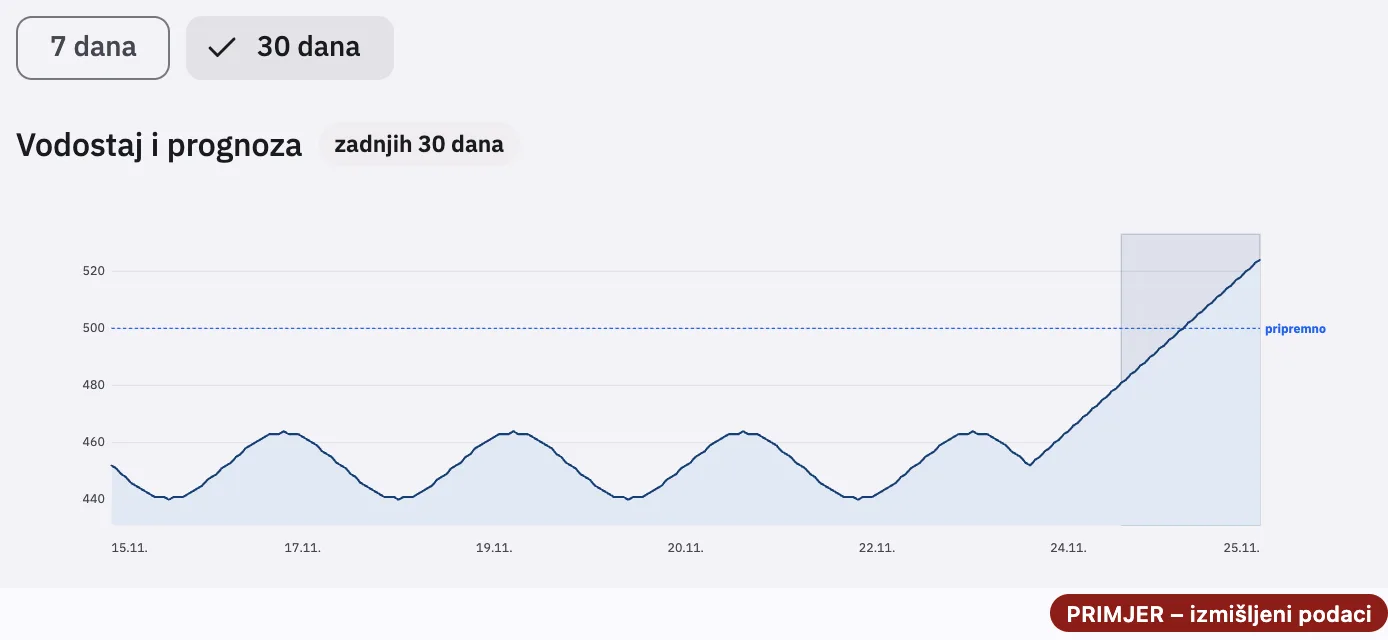
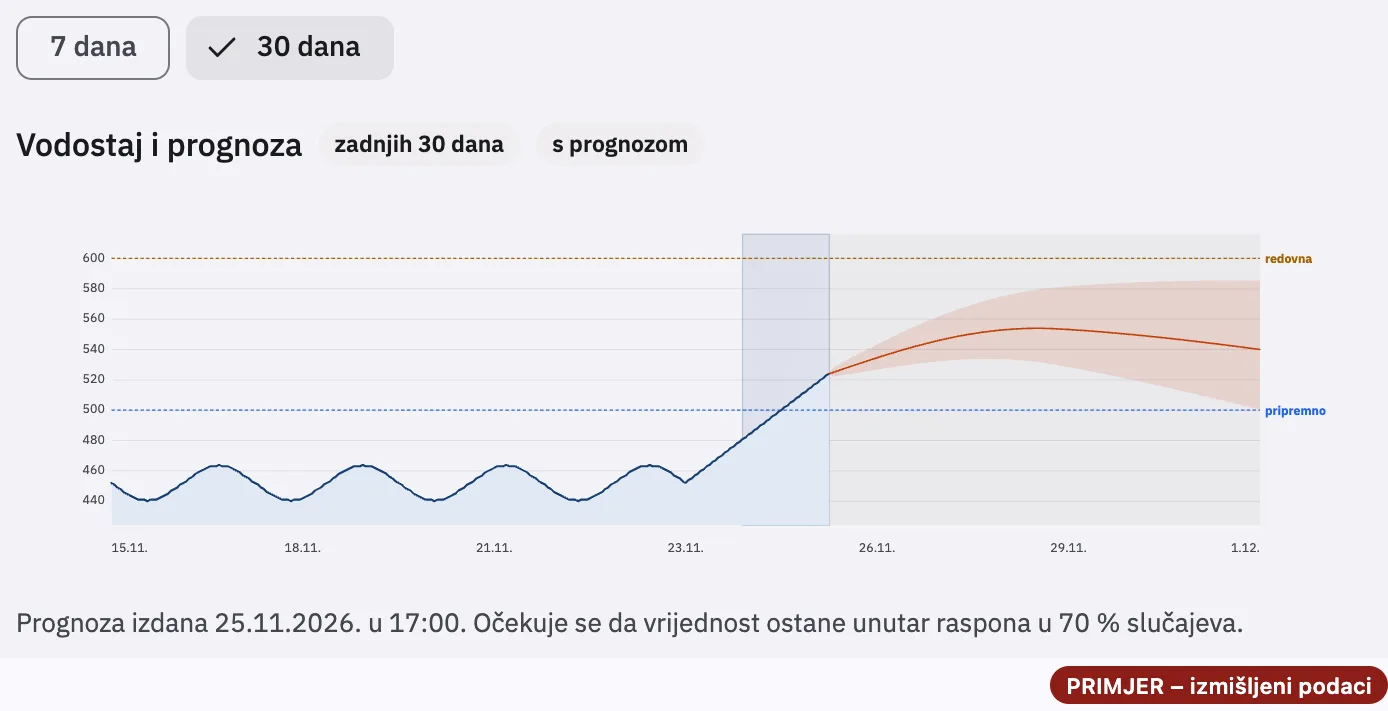
Pomoć: graf kretanja vodostaja s prognozom
Slika grafa nije pokazivala prognozu, a Pomoć baš opisuje kako se crta
nastavlja prognozom s rasponom i što piše ispod grafa. Nova slika ima
crtu prognoze s rasponom, sjenu preko prognoziranog razdoblja i natpis
kad je prognoza izdana. Prognoza je izmišljena, kao i ostali podaci
pokazne kopije.

diff --git a/web/templates/pomoc.html b/web/templates/pomoc.html
@@ -884,7 +884,7 @@
       vidi gdje ste u cjelini. Kad letva ima prognozu, crta se nastavlja prognozom s rasponom do
       kraja razdoblja, a ispod grafa piše kad je izdana i u koliko slučajeva vrijednost ostaje u
       rasponu.</p>
-    {{template "pomocSlika" (list "ocitanja-graf" "Graf vodostaja letve Batina s čipovima 7 i 30 dana: vodostaj nekoliko dana oscilira oko 450 cm, pa raste preko crtkane crte pripremnog stanja; osjenčan je dio koji je upravo u tablici." "694")}}
+    {{template "pomocSlika" (list "ocitanja-graf" "Graf vodostaja letve Batina s čipovima 7 i 30 dana: vodostaj raste preko crtkane crte pripremnog stanja, a dalje se nastavlja crvena crta prognoze s rasponom do 1. 12.; osjenčan je dio koji je u tablici, a ispod grafa piše kad je prognoza izdana." "694")}}
     <p>Prekid u crti znači da podataka nema. Crta se namjerno ne povlači preko praznine — to bi
       tvrdilo da podatak postoji ondje gdje ga nema.</p>
     <p>Ispod grafa stoji <a href="#letva-korito">presjek korita</a> s vodom ucrtanom po zadnjem
